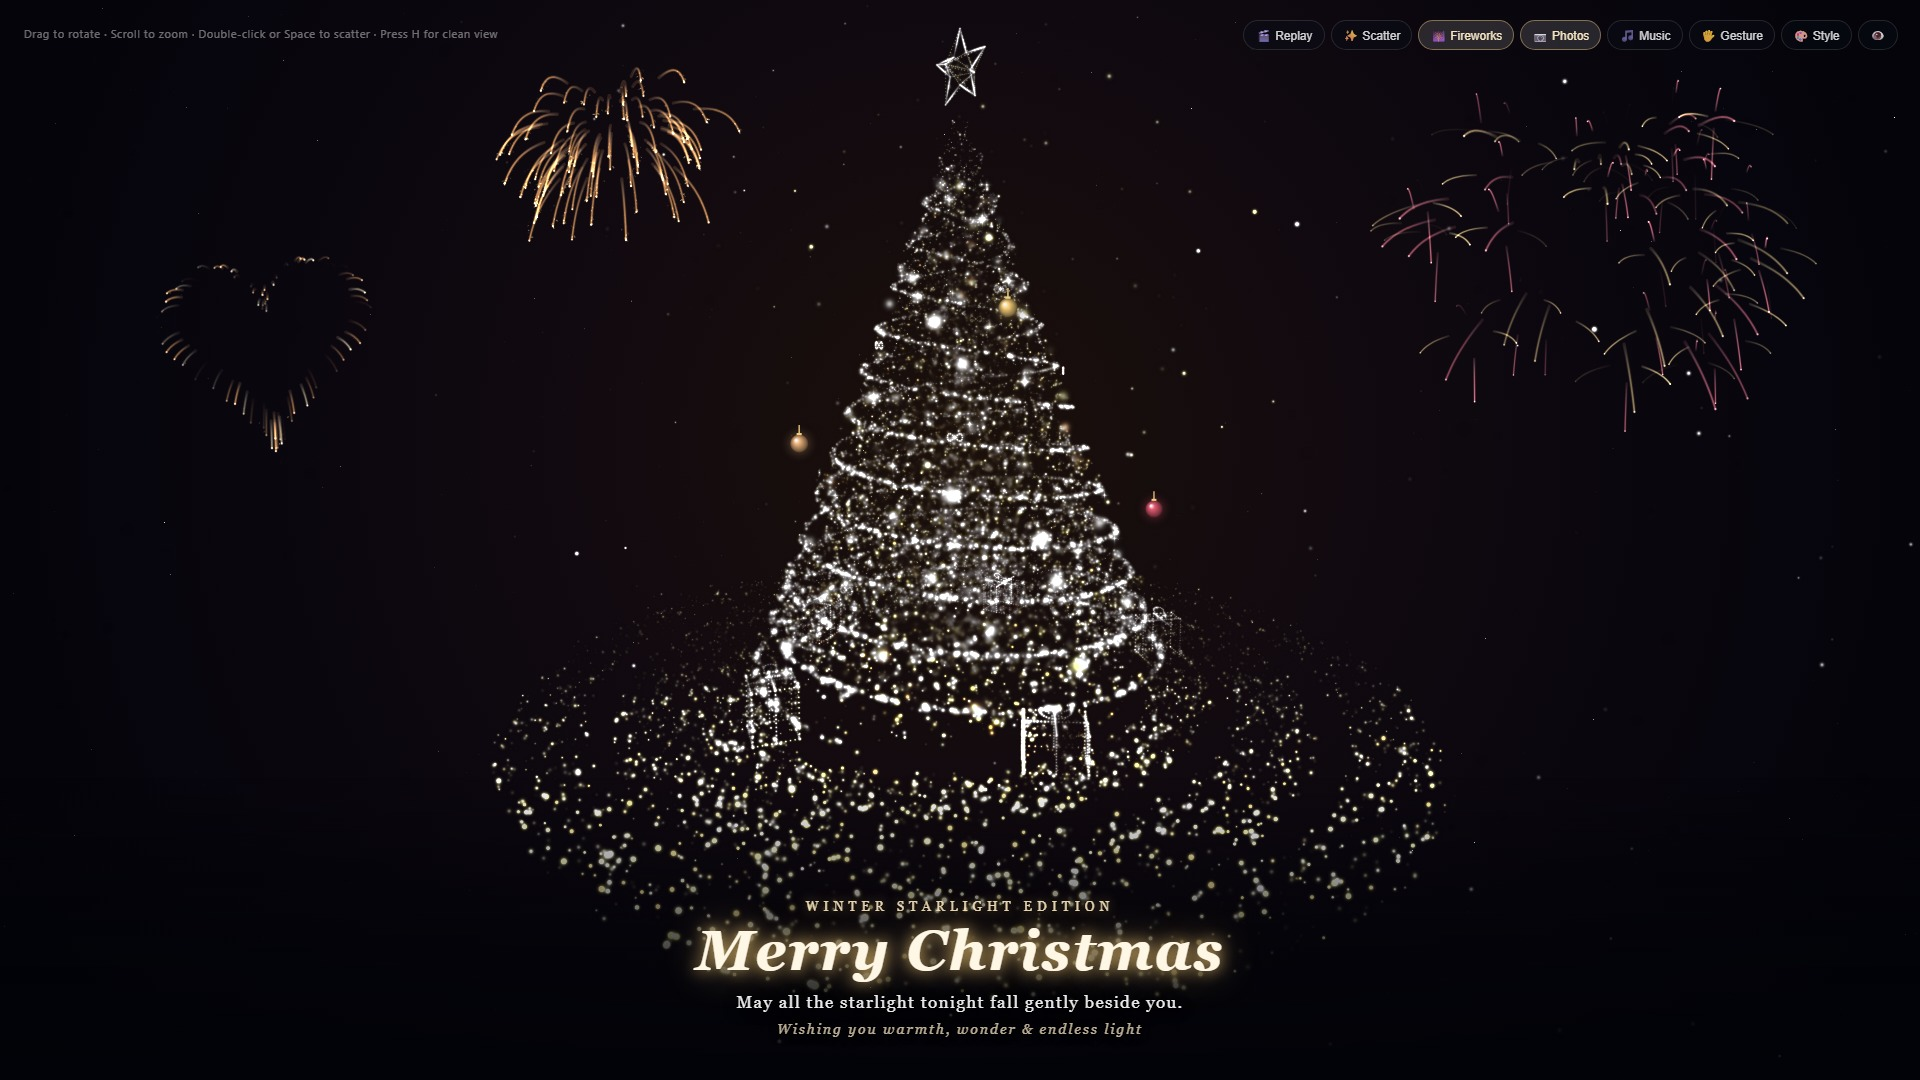
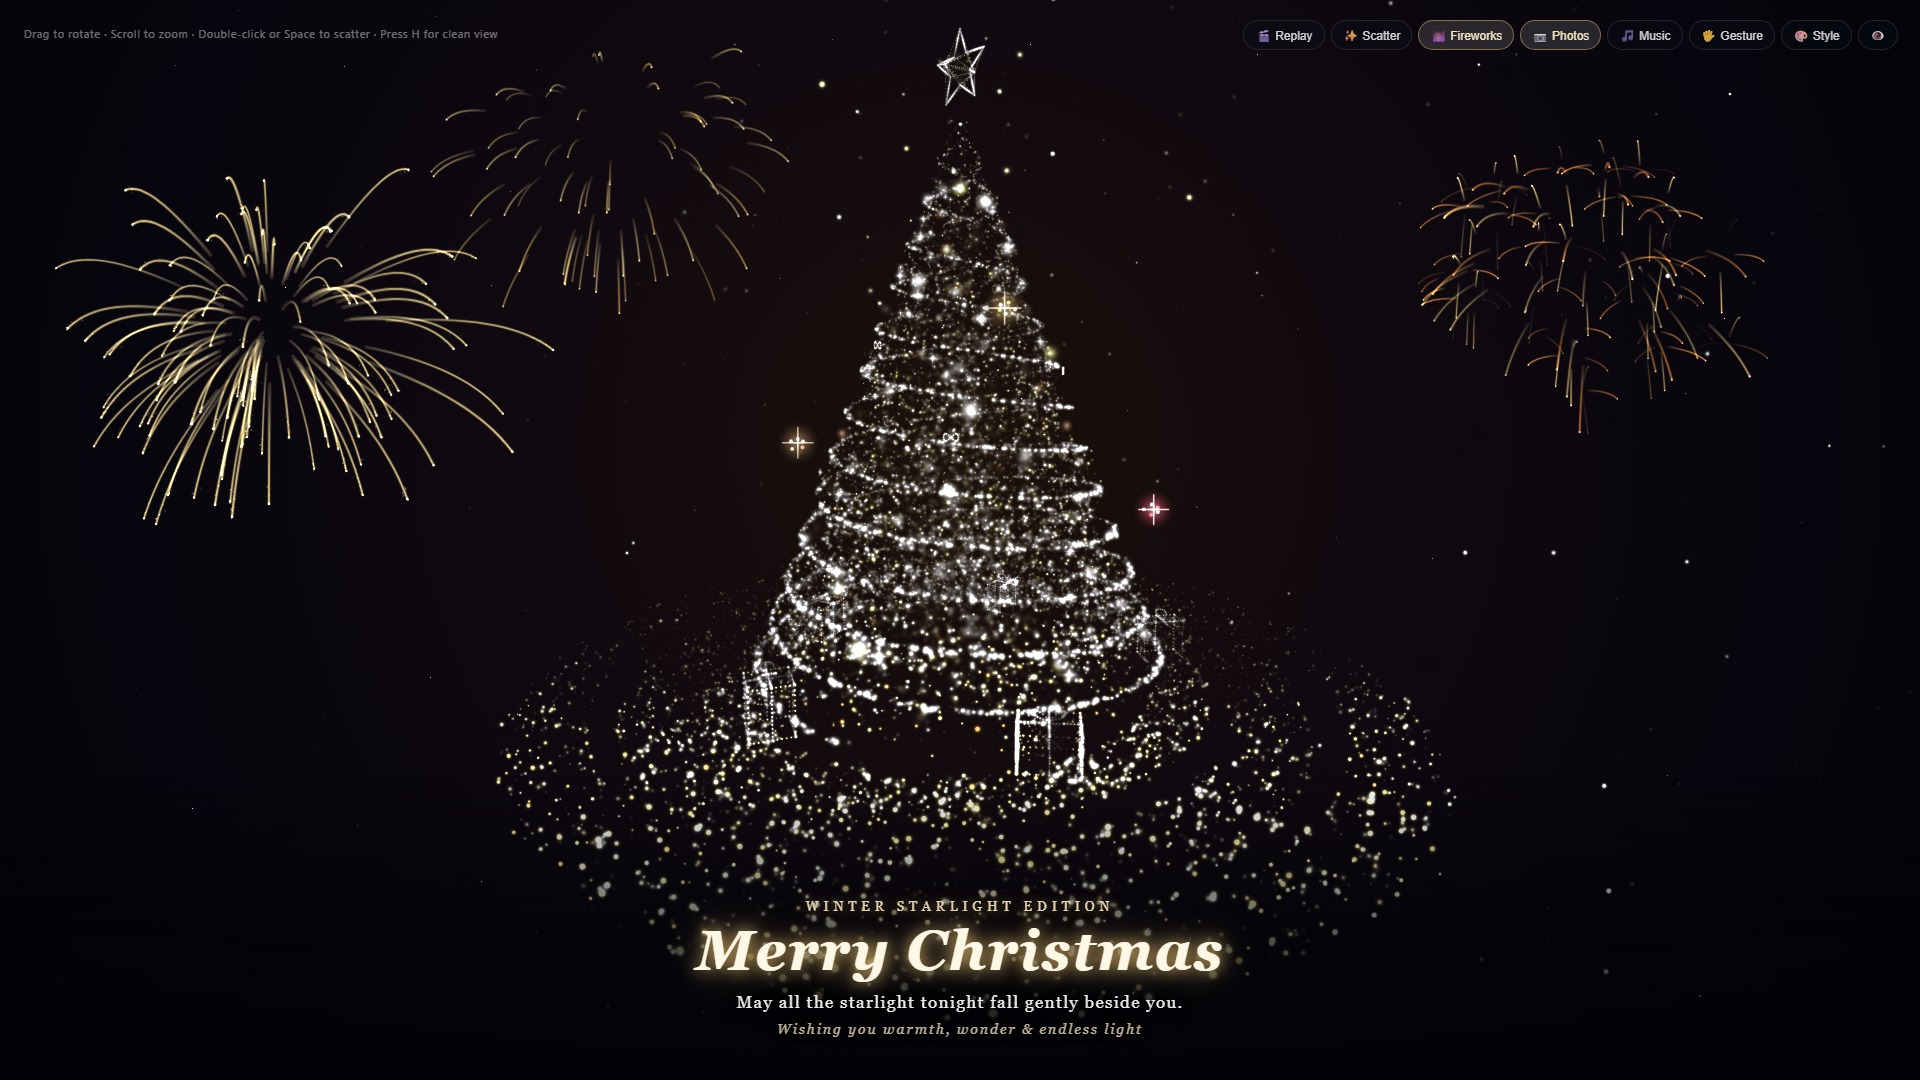
polish(v21): pure particle starlight clusters with orbiting motes on tree (no flat 2D ornaments)

diff --git a/index.html b/index.html
@@ -2663,48 +2663,50 @@
             const isHovered = hoverPhoto === pf;
 
             if (sFrac < 0.24) {
-              // TREE MODE: Luxury glossy 3D metallic Christmas Bauble Ornaments (zero ugly cartoon stickers!)
-              const orbVis = isHovered ? 1.0 : (p.depth > camDist + 14 ? 0.0 : (p.depth > camDist - 12 ? 0.56 : 0.96));
+              // TREE MODE: Pure additive stardust star-cluster nodes (100% particle aesthetic, zero flat 2D stickers!)
+              const orbVis = isHovered ? 1.0 : (p.depth > camDist + 14 ? 0.0 : (p.depth > camDist - 12 ? 0.55 : 0.94));
               if (orbVis <= 0.02) { pf.screenRect = null; continue; }
 
-              const rOrb = 6.8 * p.scale * (isHovered ? 1.32 : 1.0) * (0.45 + 0.55 * bellFade);
-              const hitR = Math.max(14, rOrb * 2.1);
+              const rStar = 8.5 * p.scale * (isHovered ? 1.38 : 1.0) * (0.4 + 0.6 * bellFade);
+              const hitR = Math.max(15, rStar * 2.0);
               pf.screenRect = { x: p.sx - hitR, y: p.sy - hitR, w: hitR * 2, h: hitR * 2 };
 
               const orbCol = theme.giftColors[idx % theme.giftColors.length];
+              const pulse = 0.78 + 0.22 * Math.sin(state.time * 3.0 + idx * 1.4);
               ovCtx.save();
-              ovCtx.translate(p.sx, p.sy);
-              ovCtx.globalAlpha = orbVis * bellFade * fade;
-
-              // Fine golden hanging string
-              ovCtx.strokeStyle = theme.accent;
-              ovCtx.lineWidth = Math.max(0.75, 0.95 * p.scale);
-              ovCtx.beginPath();
-              ovCtx.moveTo(0, -rOrb);
-              ovCtx.lineTo(0, -rOrb - 7 * p.scale);
-              ovCtx.stroke();
-
-              // Soft ambient glow halo
               ovCtx.globalCompositeOperation = 'lighter';
-              const halo = ovCtx.createRadialGradient(0, 0, rOrb * 0.2, 0, 0, rOrb * 2.3);
-              halo.addColorStop(0, hexToRgba(orbCol, isHovered ? 0.72 : 0.42));
+              ovCtx.translate(p.sx, p.sy);
+              ovCtx.globalAlpha = orbVis * bellFade * fade * pulse;
+
+              // Soft stardust aura
+              const halo = ovCtx.createRadialGradient(0, 0, 0.5, 0, 0, rStar * 2.2);
+              halo.addColorStop(0, `rgba(255, 252, 244, ${isHovered ? 0.95 : 0.72})`);
+              halo.addColorStop(0.28, hexToRgba(orbCol, isHovered ? 0.85 : 0.52));
               halo.addColorStop(1, 'rgba(0,0,0,0)');
               ovCtx.fillStyle = halo;
-              ovCtx.beginPath(); ovCtx.arc(0, 0, rOrb * 2.3, 0, Math.PI * 2); ovCtx.fill();
+              ovCtx.beginPath(); ovCtx.arc(0, 0, rStar * 2.2, 0, Math.PI * 2); ovCtx.fill();
 
-              // Glossy 3D metallic sphere shading (highlight at upper-left + rich saturated body + dark lower-right rim)
-              ovCtx.globalCompositeOperation = 'source-over';
-              const sph = ovCtx.createRadialGradient(-rOrb * 0.34, -rOrb * 0.36, rOrb * 0.08, 0, 0, rOrb);
-              sph.addColorStop(0, '#ffffff');
-              sph.addColorStop(0.28, orbCol);
-              sph.addColorStop(0.82, shadeHex(orbCol, 0.55));
-              sph.addColorStop(1, shadeHex(orbCol, 0.32));
-              ovCtx.fillStyle = sph;
-              ovCtx.beginPath(); ovCtx.arc(0, 0, rOrb, 0, Math.PI * 2); ovCtx.fill();
+              // Crisp 4-point diffraction star glint (pure stardust look)
+              const rayL = rStar * (isHovered ? 1.85 : 1.35);
+              ovCtx.strokeStyle = 'rgba(255, 250, 238, 0.88)';
+              ovCtx.lineWidth = Math.max(0.8, 1.15 * p.scale);
+              ovCtx.lineCap = 'round';
+              ovCtx.beginPath();
+              ovCtx.moveTo(-rayL, 0); ovCtx.lineTo(rayL, 0);
+              ovCtx.moveTo(0, -rayL); ovCtx.lineTo(0, rayL);
+              ovCtx.stroke();
 
-              // Delicate metallic gold crown cap on top of bauble
-              ovCtx.fillStyle = '#f3d384';
-              ovCtx.fillRect(-rOrb * 0.28, -rOrb * 1.15, rOrb * 0.56, rOrb * 0.24);
+              // Tiny orbiting stardust motes around the memory star
+              for (let m = 0; m < 5; m++) {
+                const ma = state.time * 1.4 + idx + (m / 5) * Math.PI * 2;
+                const mr = rStar * (0.68 + 0.24 * Math.sin(state.time * 2 + m));
+                const mx = Math.cos(ma) * mr;
+                const my = Math.sin(ma) * mr * 0.75;
+                ovCtx.fillStyle = m % 2 === 0 ? '#ffffff' : orbCol;
+                ovCtx.beginPath();
+                ovCtx.arc(mx, my, Math.max(0.9, 1.45 * p.scale), 0, Math.PI * 2);
+                ovCtx.fill();
+              }
               ovCtx.restore();
             }
 
